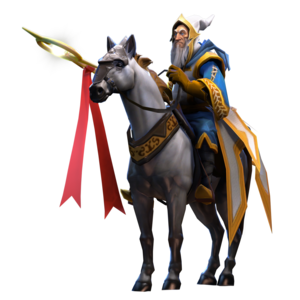
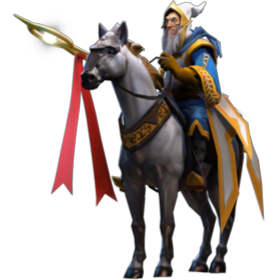
Fixed reducers, images

diff --git a/src/components/UnitComponent/index.tsx b/src/components/UnitComponent/index.tsx
@@ -1,17 +1,22 @@
 import React, {useState} from 'react';
 import {View, Text, Image, TouchableWithoutFeedback} from 'react-native';
+import {useSelector} from 'react-redux';
 import GameUnit from '../../gameUnits/gameUnit';
+import teamsReducer from '../../redux/reducers/teamsReducer';
 import {cellSize} from '../BoardComponent/style';
 import styles from './style';
 
 export type Props = {
   unit: GameUnit;
-  team: number;
   id: number;
 };
 
-const Unit: React.FC<Props> = ({unit, team, id}) => { // Добычу юнита убрать отсюда, юзСелектор
-  const [biba, setBiba] = useState(unit.xPosition);
+const Unit: React.FC<Props> = ({id}) => {
+  // Добычу юнита убрать отсюда, юзСелектор
+
+  const unit: GameUnit = useSelector(
+    ({teamsReducer}) => teamsReducer.units[id],
+  );
 
   // Делаем единый стор для обеих команд, добывать сможем через teamReducer.team[id], который мы принимаем с Апп.тсх
 
@@ -19,21 +24,21 @@ const Unit: React.FC<Props> = ({unit, team, id}) => { // Добычу юнита
     <View
       style={{
         position: 'absolute',
-        left: unit.xPosition * cellSize + 5,
+        left: unit.xPosition * cellSize,
         top: unit.yPosition * cellSize,
         justifyContent: 'center',
         alignItems: 'center',
       }}>
       <TouchableWithoutFeedback
         onPress={() => {
-          setBiba(biba + 1);
+          // setBiba(biba + 1);
+          // console.log(biba);
         }}>
         <Image
           source={unit.image}
-          style={{width: cellSize - 10, height: cellSize - 10}}
+          style={{width: cellSize, height: cellSize, backgroundColor: null}}
         />
       </TouchableWithoutFeedback>
-      <Text>{id}</Text>  
     </View>
   );
 };

diff --git a/src/gameUnits/gameUnit.ts b/src/gameUnits/gameUnit.ts
@@ -1,4 +1,17 @@
 import {Action} from '../strategy/Action';
+import {Melee} from '../strategy/Strategies';
+
+export const UNIT_NAMES = {
+  ARCHIMAGE: 'Archimage',
+  BANDIT: 'Bandit',
+  BISHOP: 'Bishop',
+  CENTAUR: 'Centaur',
+  ELF_ARCHER: 'ElfArcher',
+  MONK: 'Monk',
+  SIREN: 'Siren',
+  SKELETON: 'Skeleton',
+  SKELETON_MAGE: 'SkeletonMage',
+};
 
 class GameUnit {
   xPosition: number;
@@ -35,7 +48,7 @@ class GameUnit {
     this.team = team;
     this.hp = hp;
     this.id = id;
-    this.image = image;
+    this.image = SetImageLink(unitName);
     this.initiative = initiative;
     this.unitName = unitName;
     this.Action = Action1;
@@ -46,5 +59,30 @@ class GameUnit {
     this.Action.doAction(units, this);
   }
 }
+
+const SetImageLink = (unitName: string): NodeRequire => {
+  switch (unitName) {
+    case UNIT_NAMES.ARCHIMAGE:
+      return require('../assets/gameUnitsImages/Archimage.png');
+    case UNIT_NAMES.BANDIT:
+      return require('../assets/gameUnitsImages/Bandit.png');
+    case UNIT_NAMES.BISHOP:
+      return require('../assets/gameUnitsImages/Bishop.png');
+    case UNIT_NAMES.CENTAUR:
+      return require('../assets/gameUnitsImages/Centaur.png');
+    case UNIT_NAMES.ELF_ARCHER:
+      return require('../assets/gameUnitsImages/ElfArcher.png');
+    case UNIT_NAMES.MONK:
+      return require('../assets/gameUnitsImages/Monk.png');
+    case UNIT_NAMES.SIREN:
+      return require('../assets/gameUnitsImages/Siren.png');
+    case UNIT_NAMES.SKELETON:
+      return require('../assets/gameUnitsImages/Skeleton.png');
+    case UNIT_NAMES.SKELETON_MAGE:
+      return require('../assets/gameUnitsImages/SkeletonMage.png');
+    default:
+      return require('../assets/gameUnitsImages/Grave.png');
+  }
+};
 
 export default GameUnit;

diff --git a/src/App.tsx b/src/App.tsx
@@ -7,34 +7,38 @@
  *
  * @format
  */
-import React from 'react';
-import {
-  SafeAreaView,
-  StatusBar,
-  Text,
-  useColorScheme,
-  View,
-} from 'react-native';
+import React, {useEffect, useState} from 'react';
+import {SafeAreaView, StatusBar, useColorScheme} from 'react-native';
 import {Colors} from 'react-native/Libraries/NewAppScreen';
+import {useDispatch} from 'react-redux';
 import Board from './components/BoardComponent';
 import Unit from './components/UnitComponent';
 import generateTeam from './gameLogic/generateTeam';
+import GameUnit from './gameUnits/gameUnit';
+import {unitsChange} from './redux/actions/teamsActions';
 
 const App = () => {
   const isDarkMode = useColorScheme() === 'dark';
+
+  const [units, setUnits] = useState<GameUnit[]>([]);
+  const dispatch = useDispatch();
 
   const backgroundStyle = {
     backgroundColor: isDarkMode ? Colors.darker : Colors.lighter,
   };
 
-  let team = [...generateTeam(6, 1), ...generateTeam(6, 2)];
+  useEffect(() => {
+    const createdUnits = [...generateTeam(6, 1), ...generateTeam(6, 2)];
+    setUnits(createdUnits);
+    dispatch(unitsChange(createdUnits));
+  }, []);
 
   return (
     <SafeAreaView style={backgroundStyle}>
       <StatusBar barStyle={isDarkMode ? 'light-content' : 'dark-content'} />
       <Board>
-        {team.map((item, index) => {
-          return <Unit team={1} unit={item} key={index} id={index} />;
+        {units.map((item, index) => {
+          return <Unit unit={item} key={index} id={index} />;
         })}
       </Board>
     </SafeAreaView>

diff --git a/src/redux/reducers/gameReducer.ts b/src/redux/reducers/gameReducer.ts
@@ -2,28 +2,21 @@ import GameUnit from '../../gameUnits/gameUnit';
 import types from '../types';
 
 export type gameState = {
-  currentTeam: 1 | 2 | null;
-  currentUnit: GameUnit | null;
-  orderedCurrentTeam: Array<GameUnit>;
+  currentUnitIndex: number | null;
+  orderedUnits: Array<GameUnit>;
 };
 
 const initialState: gameState = {
-  currentTeam: null,
-  currentUnit: null,
-  orderedCurrentTeam: [],
+  currentUnitIndex: null,
+  orderedUnits: [],
 };
 
 const gameReducer = (
   state = initialState,
-  action: {type: string; payload: 1 | 2 | Array<GameUnit> | null},
+  action: {type: string; payload: number | Array<GameUnit> | null},
 ) => {
   const {type, payload} = action;
   switch (type) {
-    case types.CURRENT_TEAM_CHANGE:
-      return {
-        ...state,
-        currentTeam: payload,
-      };
     case types.CURRENT_UNIT_CHANGE:
       return {
         ...state,

diff --git a/src/redux/reducers/teamsReducer.ts b/src/redux/reducers/teamsReducer.ts
@@ -2,30 +2,23 @@ import GameUnit from '../../gameUnits/gameUnit';
 import types from '../types';
 
 export type teamState = {
-  team1: Array<GameUnit>;
-  team2: Array<GameUnit>;
+  units: Array<GameUnit>;
 };
 
 const initialState: teamState = {
-  team1: [],
-  team2: [],
+  units: [],
 };
 
 const teamsReducer = (
   state = initialState,
-  action: {type: string; payload: 1 | 2 | Array<GameUnit> | null},
+  action: {type: string; payload: GameUnit | null},
 ) => {
   const {type, payload} = action;
   switch (type) {
-    case types.TEAM_1_UNITS_CHANGE:
+    case types.UNITS_CHANGE:
       return {
         ...state,
-        team1: payload,
-      };
-    case types.TEAM_2_UNITS_CHANGE:
-      return {
-        ...state,
-        team2: payload,
+        units: payload,
       };
     default:
       return state;

diff --git a/src/redux/actions/teamsActions.ts b/src/redux/actions/teamsActions.ts
@@ -1,11 +1,7 @@
 import GameUnit from '../../gameUnits/gameUnit';
 import types from '../types';
 
-export const team1Change = (units: Array<GameUnit>) => ({
-  type: types.TEAM_1_UNITS_CHANGE,
-  payload: units,
-});
-export const team2Change = (units: Array<GameUnit>) => ({
-  type: types.TEAM_2_UNITS_CHANGE,
+export const unitsChange = (units: Array<GameUnit>) => ({
+  type: types.UNITS_CHANGE,
   payload: units,
 });

diff --git a/src/redux/types.ts b/src/redux/types.ts
@@ -1,6 +1,5 @@
 const types = {
-  TEAM_1_UNITS_CHANGE: 'TEAM_0_UNITS_CHANGE',
-  TEAM_2_UNITS_CHANGE: 'TEAM_1_UNITS_CHANGE',
+  UNITS_CHANGE: 'UNITS_CHANGE',
   CURRENT_TEAM_CHANGE: 'CURRENT_TEAM_CHANGE',
   CURRENT_UNIT_CHANGE: 'CURRENT_USER_CHANGE',
   ORDER_TEAM_CHANGE: 'ORDER_TEAM_CHANGE',
